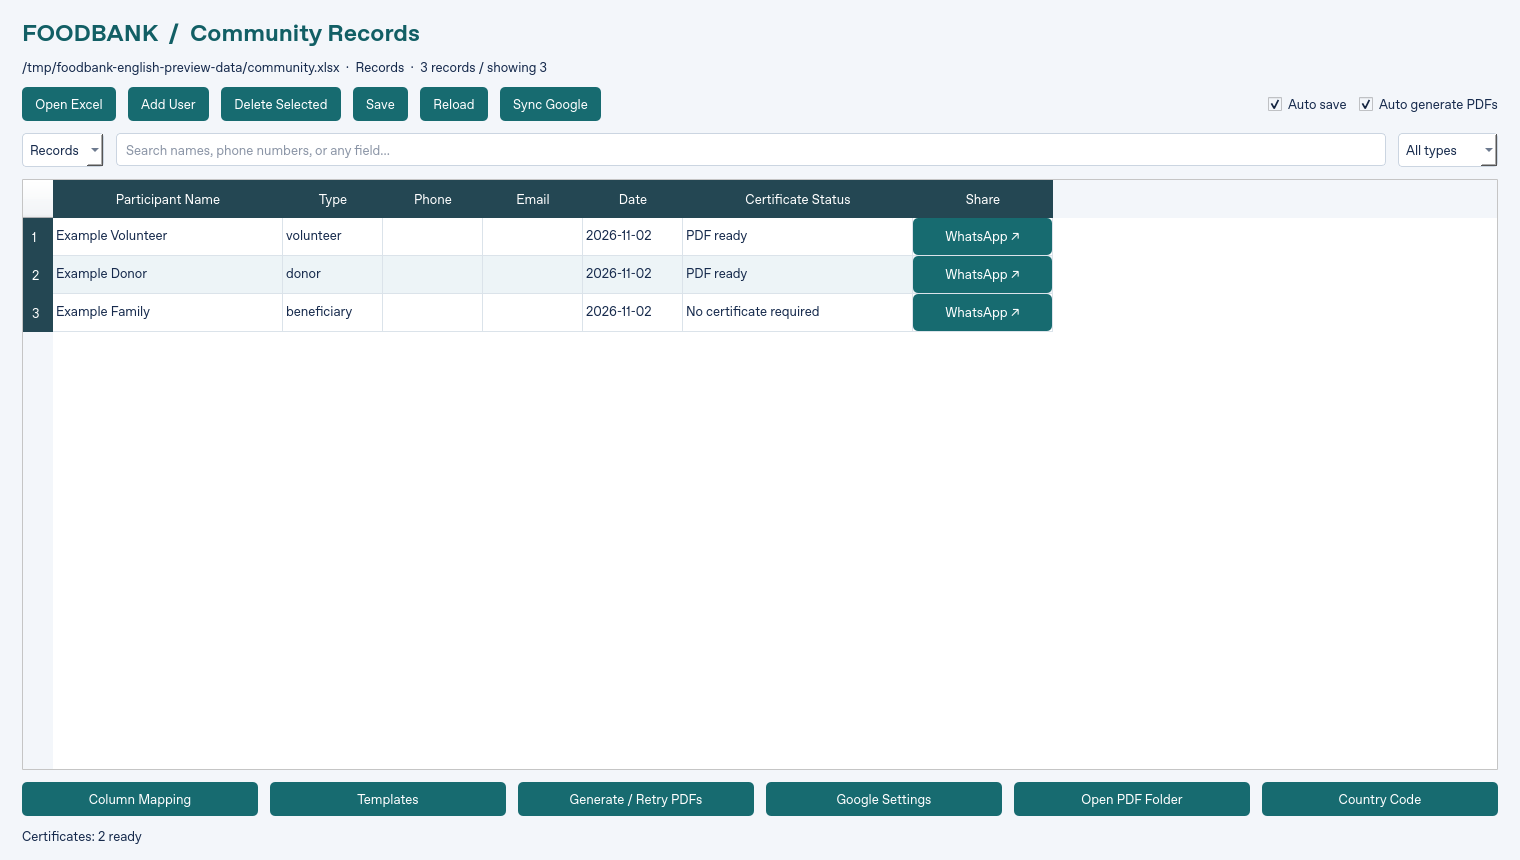
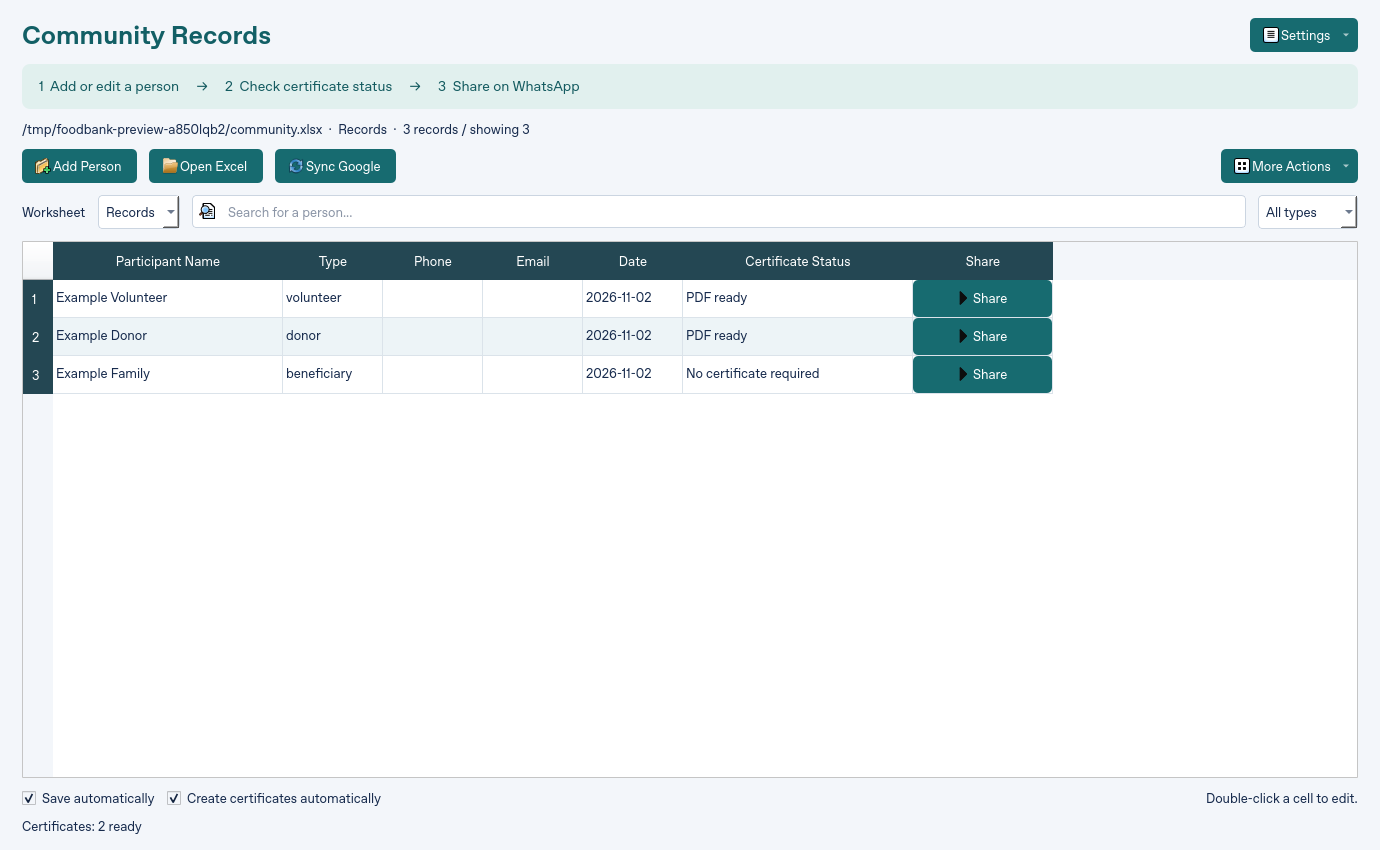
Simplify daily workflow with guided actions and person entry form

diff --git a/main.py b/main.py
@@ -12,7 +12,7 @@ from PySide6.QtGui import QDesktopServices, QKeySequence
 from PySide6.QtWidgets import (QApplication,QMainWindow,QWidget,QVBoxLayout,QHBoxLayout,QLabel,
     QLineEdit,QPushButton,QComboBox,QTableWidget,QTableWidgetItem,QHeaderView,QFileDialog,
     QMessageBox,QDialog,QFormLayout,QDialogButtonBox,QCheckBox,QSpinBox,QTabWidget,
-    QAbstractItemView,QInputDialog,QStyledItemDelegate)
+    QAbstractItemView,QInputDialog,QStyledItemDelegate,QMenu,QStyle)
 from storage import ExcelStore, ConflictError, text
 from certificates import kind, markers, generate_one, certificate_signature, whatsapp_url
 from google_sync import fetch
@@ -195,23 +195,42 @@ class Window(QMainWindow):
         self.pool=QThreadPool(self);self.pool.setMaxThreadCount(2)
         self.setWindowTitle('Foodbank · Community Admin');self.resize(1380,850)
         root=QWidget();self.setCentralWidget(root);layout=QVBoxLayout(root);layout.setContentsMargins(22,18,22,16);layout.setSpacing(12)
-        title=QLabel('FOODBANK  /  Community Records');title.setObjectName('title');layout.addWidget(title)
-        self.summary=QLabel();layout.addWidget(self.summary)
+        heading=QHBoxLayout();layout.addLayout(heading)
+        title=QLabel('Community Records');title.setObjectName('title');heading.addWidget(title);heading.addStretch()
+        settings_button=QPushButton('Settings');settings_button.setIcon(self.style().standardIcon(QStyle.StandardPixmap.SP_FileDialogDetailedView))
+        settings_button.setToolTip('Set up certificates, Google Sheets, and worksheet columns.')
+        self.settings_menu=QMenu(settings_button)
+        for label,fn in [('Certificate Templates',self.configure_templates),('Google Sheets Connection',self.configure_google),('Worksheet Columns',self.configure_mapping),('WhatsApp Country Code',self.configure_country)]:
+            self.settings_menu.addAction(label,fn)
+        settings_button.setMenu(self.settings_menu);heading.addWidget(settings_button)
+        guide=QLabel('1  Add or edit a person     →     2  Check certificate status     →     3  Share on WhatsApp')
+        guide.setObjectName('guide');guide.setWordWrap(True);layout.addWidget(guide)
+        self.summary=QLabel();self.summary.setWordWrap(True);layout.addWidget(self.summary)
         toolbar=QHBoxLayout();layout.addLayout(toolbar)
-        for label,fn in [('Open Excel',self.open_excel),('Add User',self.add_row),('Delete Selected',self.delete_rows),('Save',self.save),('Reload',self.reload),('Sync Google',self.sync_google)]:
-            b=QPushButton(label);b.clicked.connect(fn);toolbar.addWidget(b)
-        toolbar.addStretch();self.autosave=QCheckBox('Auto save');self.autosave.setChecked(self.cfg['autosave']);self.autosave.toggled.connect(self.options_changed);toolbar.addWidget(self.autosave)
-        self.auto_pdf=QCheckBox('Auto generate PDFs');self.auto_pdf.setChecked(self.cfg['auto_pdf']);self.auto_pdf.toggled.connect(self.options_changed);toolbar.addWidget(self.auto_pdf)
+        for label,fn,icon,tip in [
+            ('Add Person',self.add_person_dialog,QStyle.StandardPixmap.SP_FileDialogNewFolder,'Enter a new person using a simple form.'),
+            ('Open Excel',self.open_excel,QStyle.StandardPixmap.SP_DialogOpenButton,'Choose the Excel workbook you want to manage.'),
+            ('Sync Google',self.sync_google,QStyle.StandardPixmap.SP_BrowserReload,'Check connected Google Sheets for new registrations.')]:
+            button=QPushButton(label);button.setIcon(self.style().standardIcon(icon));button.setToolTip(tip);button.clicked.connect(fn);toolbar.addWidget(button)
+        toolbar.addStretch()
+        more=QPushButton('More Actions');more.setIcon(self.style().standardIcon(QStyle.StandardPixmap.SP_FileDialogListView))
+        self.actions_menu=QMenu(more)
+        for label,fn in [('Save Changes',self.save),('Reload Excel',self.reload),('Generate / Retry PDFs',self.manual_pdf),('Open PDF Folder',self.open_output)]:
+            self.actions_menu.addAction(label,fn)
+        self.actions_menu.addSeparator();self.actions_menu.addAction('Delete Selected Rows',self.delete_rows)
+        more.setMenu(self.actions_menu);toolbar.addWidget(more)
         filters=QHBoxLayout();layout.addLayout(filters)
-        self.sheets=QComboBox();self.sheets.currentTextChanged.connect(self.change_sheet);filters.addWidget(self.sheets)
-        self.search=QLineEdit();self.search.setPlaceholderText('Search names, phone numbers, or any field...');self.search.textChanged.connect(self.render);filters.addWidget(self.search,1)
+        filters.addWidget(QLabel('Worksheet'))
+        self.sheets=QComboBox();self.sheets.setToolTip('Choose which worksheet to display.');self.sheets.currentTextChanged.connect(self.change_sheet);filters.addWidget(self.sheets)
+        self.search=QLineEdit();self.search.setPlaceholderText('Search for a person...');self.search.addAction(self.style().standardIcon(QStyle.StandardPixmap.SP_FileDialogContentsView),QLineEdit.ActionPosition.LeadingPosition);self.search.textChanged.connect(self.render);filters.addWidget(self.search,1)
         self.category=QComboBox();self.category.addItems(['All types','volunteer','donor','beneficiary']);self.category.currentTextChanged.connect(self.render);filters.addWidget(self.category)
         self.table=RecordTable();self.table.setAlternatingRowColors(True);self.table.setSelectionBehavior(QAbstractItemView.SelectionBehavior.SelectRows);self.table.horizontalHeader().setSectionResizeMode(QHeaderView.ResizeMode.Interactive);self.table.verticalHeader().setDefaultSectionSize(38);self.table.itemChanged.connect(self.edited);layout.addWidget(self.table,1)
         footer=QHBoxLayout();layout.addLayout(footer)
-        for label,fn in [('Column Mapping',self.configure_mapping),('Templates',self.configure_templates),('Generate / Retry PDFs',self.manual_pdf),('Google Settings',self.configure_google),('Open PDF Folder',self.open_output),('Country Code',self.configure_country)]:
-            b=QPushButton(label);b.clicked.connect(fn);footer.addWidget(b)
+        self.autosave=QCheckBox('Save automatically');self.autosave.setChecked(self.cfg['autosave']);self.autosave.toggled.connect(self.options_changed);footer.addWidget(self.autosave)
+        self.auto_pdf=QCheckBox('Create certificates automatically');self.auto_pdf.setChecked(self.cfg['auto_pdf']);self.auto_pdf.toggled.connect(self.options_changed);footer.addWidget(self.auto_pdf)
+        footer.addStretch();hint=QLabel('Double-click a cell to edit.');footer.addWidget(hint)
         self.info=QLabel('Ready');self.info.setWordWrap(True);layout.addWidget(self.info)
-        self.setStyleSheet('''QMainWindow,QWidget {background:#f3f6fa;color:#172b4d;font-size:13px;} QLabel#title {font-size:24px;font-weight:700;color:#125f65;} QPushButton {background:#176b70;color:white;border:0;border-radius:5px;padding:9px 13px;} QPushButton:hover {background:#0b5157;} QPushButton:disabled {background:#95a5ab;} QLineEdit,QComboBox,QSpinBox {background:white;color:#172b4d;padding:7px;border:1px solid #cbd5e1;border-radius:4px;} QTableWidget {background:white;alternate-background-color:#edf4f7;color:#172b4d;gridline-color:#dbe3ea;selection-background-color:#c2e7e9;selection-color:#172b4d;} QHeaderView::section {background:#244753;color:white;padding:9px;border:0;} QCheckBox {spacing:6px;}''')
+        self.setStyleSheet('''QMainWindow,QWidget {background:#f3f6fa;color:#172b4d;font-size:13px;} QLabel#title {font-size:26px;font-weight:700;color:#125f65;} QLabel#guide {background:#e1f0ee;color:#145b60;border-radius:8px;padding:14px;font-size:14px;} QMenu {background:white;color:#172b4d;padding:6px;border:1px solid #cbd5e1;} QMenu::item {padding:10px 24px;} QMenu::item:selected {background:#dcefed;} QPushButton {background:#176b70;color:white;border:0;border-radius:5px;padding:9px 13px;} QPushButton:hover {background:#0b5157;} QPushButton:disabled {background:#95a5ab;} QLineEdit,QComboBox,QSpinBox {background:white;color:#172b4d;padding:7px;border:1px solid #cbd5e1;border-radius:4px;} QTableWidget {background:white;alternate-background-color:#edf4f7;color:#172b4d;gridline-color:#dbe3ea;selection-background-color:#c2e7e9;selection-color:#172b4d;} QHeaderView::section {background:#244753;color:white;padding:9px;border:0;} QCheckBox {spacing:6px;}''')
         self.save_timer=QTimer(self);self.save_timer.setSingleShot(True);self.save_timer.setInterval(1400);self.save_timer.timeout.connect(lambda:self.save(quiet=True))
         self.watch_timer=QTimer(self);self.watch_timer.timeout.connect(self.watch);self.watch_timer.start(2500)
         self.google_timer=QTimer(self);self.google_timer.timeout.connect(self.sync_google)
@@ -255,7 +274,7 @@ class Window(QMainWindow):
             status='No certificate required' if rec['type']=='beneficiary' else entry.get('status','Pending' if rec['type'] else 'Select a type / column mapping')
             if self.dirty and rec['type'] in ('donor','volunteer'):status='Unsaved'
             item=QTableWidgetItem(status);item.setFlags(item.flags() & ~Qt.ItemFlag.ItemIsEditable);self.table.setItem(ui,len(self.headers),item)
-            button=QPushButton('WhatsApp ↗');button.clicked.connect(lambda checked=False,index=i:self.share(index));self.table.setCellWidget(ui,len(self.headers)+1,button)
+            button=QPushButton('Share');button.setIcon(self.style().standardIcon(QStyle.StandardPixmap.SP_ArrowForward));button.setToolTip('Open WhatsApp. Attach the certificate PDF and send it manually.');button.clicked.connect(lambda checked=False,index=i:self.share(index));self.table.setCellWidget(ui,len(self.headers)+1,button)
         self.table.blockSignals(False)
         for c,h in enumerate(self.headers):
             if h==self.mapping().get('type'):self.table.setItemDelegateForColumn(c,TypeDelegate(self.table))
@@ -306,6 +325,30 @@ class Window(QMainWindow):
         if not self.guard_edits():
             self.sheets.blockSignals(True);self.sheets.setCurrentText(self.sheet);self.sheets.blockSignals(False);return
         self.save_timer.stop();self.load_table(name);self.auto_generate()
+    def add_person_dialog(self):
+        if self.sheet_is_synced():
+            self.fail('Google worksheets are read-only. Choose a local worksheet to add a person.');return
+        if not self.guard_edits():return
+        # Discard must reset the table before the form adds a new record.
+        if self.dirty:self.store.reload();self.load_table(self.sheet)
+        dialog=QDialog(self);dialog.setWindowTitle('Add Person');dialog.resize(500,350)
+        form=QFormLayout(dialog);fields={};mapping=self.mapping()
+        note=QLabel('Enter the person details below. Certificates are created for volunteers and donors.');note.setWordWrap(True);form.addRow(note)
+        for header in self.headers:
+            if header==mapping.get('type'):
+                editor=QComboBox();editor.addItems(['volunteer','donor','beneficiary'])
+            else:
+                editor=QLineEdit()
+                if header==mapping.get('name'):editor.setPlaceholderText('Name to print on the certificate')
+            editor.setObjectName('person_'+header);fields[header]=editor;form.addRow(header,editor)
+        buttons=QDialogButtonBox(QDialogButtonBox.StandardButton.Save|QDialogButtonBox.StandardButton.Cancel)
+        buttons.accepted.connect(dialog.accept);buttons.rejected.connect(dialog.reject);form.addRow(buttons)
+        if dialog.exec()!=QDialog.DialogCode.Accepted:return
+        row={h:(field.currentText() if isinstance(field,QComboBox) else field.text().strip()) for h,field in fields.items()}
+        if not any(row.values()):return
+        row.update(__fb_id='',_row=None);self.rows.append(row);self.dirty=True
+        self.search.clear();self.category.setCurrentIndex(0);self.render();self.save()
+
     def add_row(self):
         if self.sheet_is_synced():
             self.fail('Google worksheets are read-only. Switch to a local worksheet to add users.');return

diff --git a/tests/test_desktop.py b/tests/test_desktop.py
@@ -59,6 +59,20 @@ class DesktopTests(unittest.TestCase):
         w.load_table('Records');w.category.setCurrentText('volunteer')
         self.assertEqual(w.table.rowCount(),1);self.assertEqual(w.table.item(0,0).text(),'王小明')
         w.category.setCurrentText('All types');self.assertEqual(w.table.rowCount(),2)
+    def test_simple_add_person_form_and_action_menus(self):
+        w=self.window
+        def fill_form():
+            dialog=QApplication.activeModalWidget()
+            dialog.findChild(main.QLineEdit,'person_Participant Name').setText('New Volunteer')
+            dialog.findChild(main.QComboBox,'person_Type').setCurrentText('volunteer')
+            dialog.accept()
+        QTimer.singleShot(0,fill_form);w.add_person_dialog()
+        self.assertFalse(w.dirty)
+        self.assertEqual(w.store.table('Records')[1][0]['Participant Name'],'New Volunteer')
+        self.assertIn('Certificate Templates',[a.text() for a in w.settings_menu.actions()])
+        self.assertIn('Delete Selected Rows',[a.text() for a in w.actions_menu.actions()])
+        self.assertIn('Generate / Retry PDFs',[a.text() for a in w.actions_menu.actions()])
+
     def test_add_autosave_search_reload(self):
         w=self.window;w.add_row();w.table.item(0,0).setText('Alice');w.table.item(0,1).setText('volunteer')
         pump(1600)

diff --git a/README.md b/README.md
@@ -22,17 +22,19 @@ For subsequent launches, run `.venv\Scripts\python.exe main.py` or double-click 
 ## Try the sample workflow
 
 1. Click **Open Excel** and select `examples/sample_records.xlsx`. The sample contains three fictitious records and no real phone numbers. Changes are saved to the selected workbook, so copy it first if you want to keep a pristine sample.
-2. Click **Templates**. Select `examples/volunteer_sample.pptx` for volunteers and `examples/donor_sample.pptx` for donors. Leave each name marker as `auto`.
+2. Click **Settings → Certificate Templates**. Select `examples/volunteer_sample.pptx` for volunteers and `examples/donor_sample.pptx` for donors. Leave each name marker as `auto`.
 3. Select `powerpoint` (or `auto`) on Windows with PowerPoint installed. Without PowerPoint, select `libreoffice`; if necessary, enter `C:\Program Files\LibreOffice\program\soffice.exe` as the executable path.
-4. Click **Generate / Retry PDFs**. Volunteers and donors should show **PDF ready**. Beneficiaries do not receive certificates.
-5. Click **Open PDF Folder** to inspect the output. Check fonts, layout, and long names before sending real certificates.
-6. Use **Add User** to enter another record. With **Auto save** and **Auto generate PDFs** checked, edits save about 1.4 seconds after typing stops and eligible certificates generate in the background.
+4. Click **More Actions → Generate / Retry PDFs**. Volunteers and donors should show **PDF ready**. Beneficiaries do not receive certificates.
+5. Click **More Actions → Open PDF Folder** to inspect the output. Check fonts, layout, and long names before sending real certificates.
+6. Use **Add Person** to enter another record. With **Save automatically** and **Create certificates automatically** checked, edits save about 1.4 seconds after typing stops and eligible certificates generate in the background.
 
 Types are `volunteer`, `donor`, and `beneficiary`. Imported multilingual headings, names, and recognized type aliases are supported; user data is preserved as entered while application controls and messages are in English.
 
+The main screen shows three everyday actions: **Add Person**, **Open Excel**, and **Sync Google**. Add Person opens a simple form with a type dropdown. Setup options are grouped under **Settings**; manual saving, reloading, PDF retries, and deleting rows are under **More Actions**. Icons always appear alongside text labels. The three-step guide explains the daily workflow: add/edit, check certificate status, then share.
+
 ## Excel records and column mapping
 
-The default database is `data/community.xlsx`. **Open Excel** can select an existing `.xlsx` or `.xlsm` workbook; its first row is treated as column headings. **Column Mapping** selects the participant name, type, phone, and date columns. If a worksheet has no Type column, choose a default type for that worksheet.
+The default database is `data/community.xlsx`. **Open Excel** can select an existing `.xlsx` or `.xlsm` workbook; its first row is treated as column headings. **Settings → Worksheet Columns** selects the participant name, type, phone, and date columns. If a worksheet has no Type column, choose a default type for that worksheet.
 
 Edit cells directly, press Tab to move between cells, search any field, filter by type, and paste multiple rows or columns from Excel with Ctrl+V. Ctrl+C copies selected cells. While a filter is active, paste fills existing visible rows; clear filters to paste additional rows.
 
@@ -46,13 +48,13 @@ Saving uses a temporary file, atomic replacement, an application lock, and exter
 
 The recipient name must be editable PPTX text, not text baked into an image. The `auto` marker detects the standalone word `name` (case-insensitive) or `{{NAME}}`, including markers split across text runs. Alternatively, enter the exact text to replace. Text boxes, grouped shapes, table cells, and layout/master text are supported. Optional markers are `{{DATE}}`, `{{TYPE}}`, and `{{ID}}`.
 
-The original template is never edited. A temporary PPTX is filled and converted to a PDF under `data/certificates/volunteer` or `data/certificates/donor`. Generation is checked at startup, after saved edits, when external Excel changes are loaded, and after Google sync, across visible worksheets. Matching cached PDFs are reused; changes to names, dates, types, templates, or converter selection cause regeneration on the next check. Click **Reload** or **Generate / Retry PDFs** after modifying a template file.
+The original template is never edited. A temporary PPTX is filled and converted to a PDF under `data/certificates/volunteer` or `data/certificates/donor`. Generation is checked at startup, after saved edits, when external Excel changes are loaded, and after Google sync, across visible worksheets. Matching cached PDFs are reused; changes to names, dates, types, templates, or converter selection cause regeneration on the next check. Click **More Actions → Reload Excel** or **More Actions → Generate / Retry PDFs** after modifying a template file.
 
 - `templates/volunteer_template.pptx` is the supplied original volunteer template.
 - `examples/volunteer_sample.pptx` and `examples/donor_sample.pptx` are clearly labeled demonstration designs.
-- An official donor template has not been supplied. Select your approved file in **Templates** before production use.
+- An official donor template has not been supplied. Select your approved file in **Settings → Certificate Templates** before production use.
 - Windows `auto` uses PowerPoint COM and requires PowerPoint and pywin32. On Linux/macOS, `auto` uses LibreOffice Impress.
-- Missing templates/converters and export errors appear in the certificate status. Fix the prerequisite and click **Generate / Retry PDFs**.
+- Missing templates/converters and export errors appear in the certificate status. Fix the prerequisite and click **More Actions → Generate / Retry PDFs**.
 - Long names may overflow the original design; enlarge the text box or adjust template font sizes. LibreOffice and PowerPoint may render fonts and line breaks differently.
 - Historical PDFs are retained. The Share action uses only a PDF whose signature matches the current record and template.
 
@@ -61,7 +63,7 @@ The original template is never edited. A temporary PPTX is filled and converted 
 1. Link Google Form responses to a Google Sheet.
 2. Enable the **Google Sheets API** in Google Cloud, create a service account, and download its JSON key to a secure local location.
 3. Share each Google Sheet with the JSON file's `client_email`, granting **Viewer** access. Never commit this key to GitHub.
-4. Open **Google Settings**, select the credentials JSON, and add a source for each registration category. Enter the type, Sheet URL/ID, A1 range including its header row (for example `'Form Responses 1'!A1:ZZ`), and a separate local destination worksheet name (maximum 31 characters).
+4. Open **Settings → Google Sheets Connection**, select the credentials JSON, and add a source for each registration category. Enter the type, Sheet URL/ID, A1 range including its header row (for example `'Form Responses 1'!A1:ZZ`), and a separate local destination worksheet name (maximum 31 characters).
 5. Enter the exact source headings for the name, phone, email, and date columns. Name is required; the others are optional. A unique, nonempty response ID column is strongly recommended.
 6. Enable **Auto sync** (default interval: 60 seconds), or click **Sync Google** manually.
 
@@ -75,9 +77,9 @@ Real access requires your credentials and sharing permissions. Network access to
 
 ## WhatsApp sharing
 
-The last table column contains **WhatsApp ↗**. Clicking it opens the recipient's chat. If a current PDF is ready, the app also opens its folder and copies the PDF path. **Attach the PDF and send manually in WhatsApp.** Ordinary WhatsApp links cannot attach local files automatically; no messages are sent automatically.
+The last table column contains **Share**. Clicking it opens the recipient's chat. If a current PDF is ready, the app also opens its folder and copies the PDF path. **Attach the PDF and send manually in WhatsApp.** Ordinary WhatsApp links cannot attach local files automatically; no messages are sent automatically.
 
-Default country code: Malaysia `60`. Local numbers starting with `0` are normalized accordingly; `+60...` and `0060...` are supported. Change the default with **Country Code**. Store phone numbers as Excel text to preserve leading zeros.
+Default country code: Malaysia `60`. Local numbers starting with `0` are normalized accordingly; `+60...` and `0060...` are supported. Change the default with **Settings → WhatsApp Country Code**. Store phone numbers as Excel text to preserve leading zeros.
 
 ## Settings and recovery
 

diff --git a/VALIDATION.md b/VALIDATION.md
@@ -9,9 +9,11 @@ QT_QPA_PLATFORM=offscreen FOODBANK_TEST_SOFFICE=/workspace/foodbank-libreoffice/
   /workspace/foodbank-venv/bin/python -m unittest discover -s tests -v
 ```
 
-Result: **32 tests passed, 0 skipped**.
+Result: **33 tests passed, 0 skipped**.
 
 Coverage:
+
+- Simplified Add Person form saves a real Excel record; settings and advanced actions remain reachable through their menus.
 
 - English controls, dialog titles, labels, headers, validation errors, and background messages. Chinese input aliases remain supported without becoming interface labels.
 - English type filtering preserves multilingual participant data.
